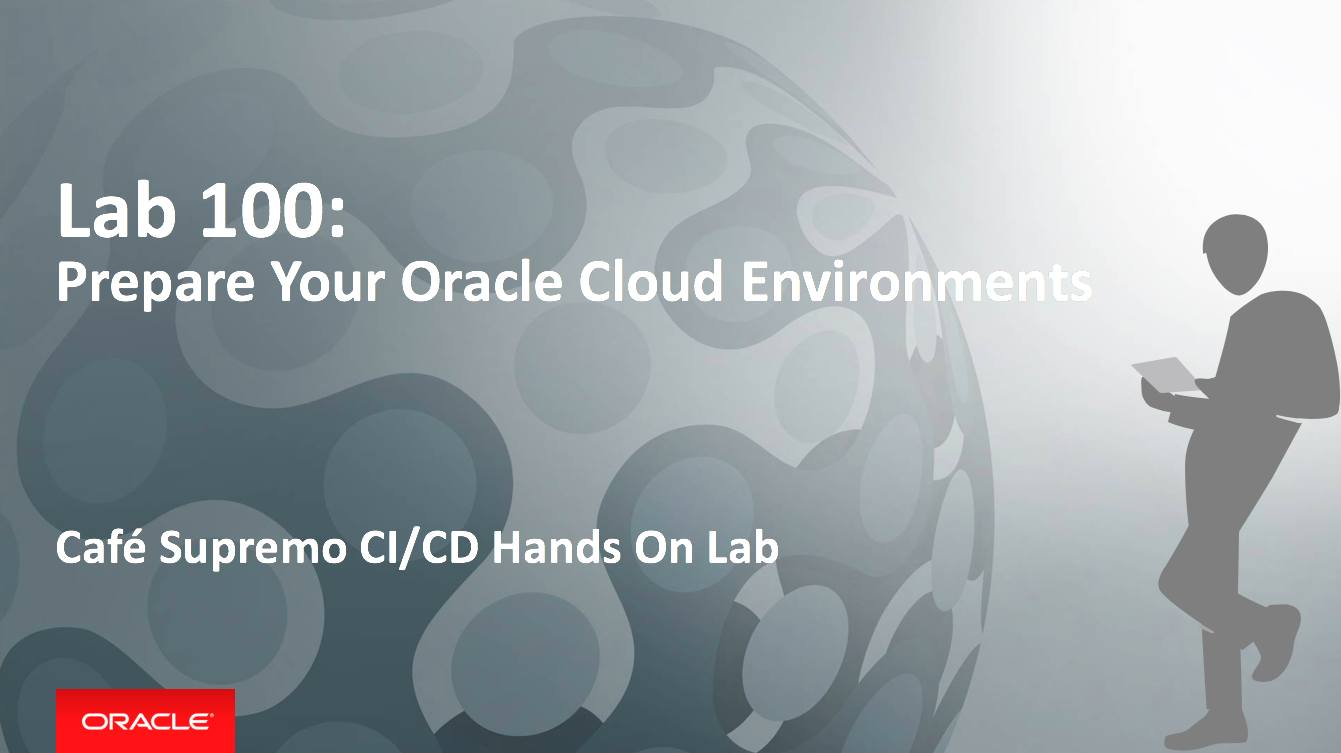
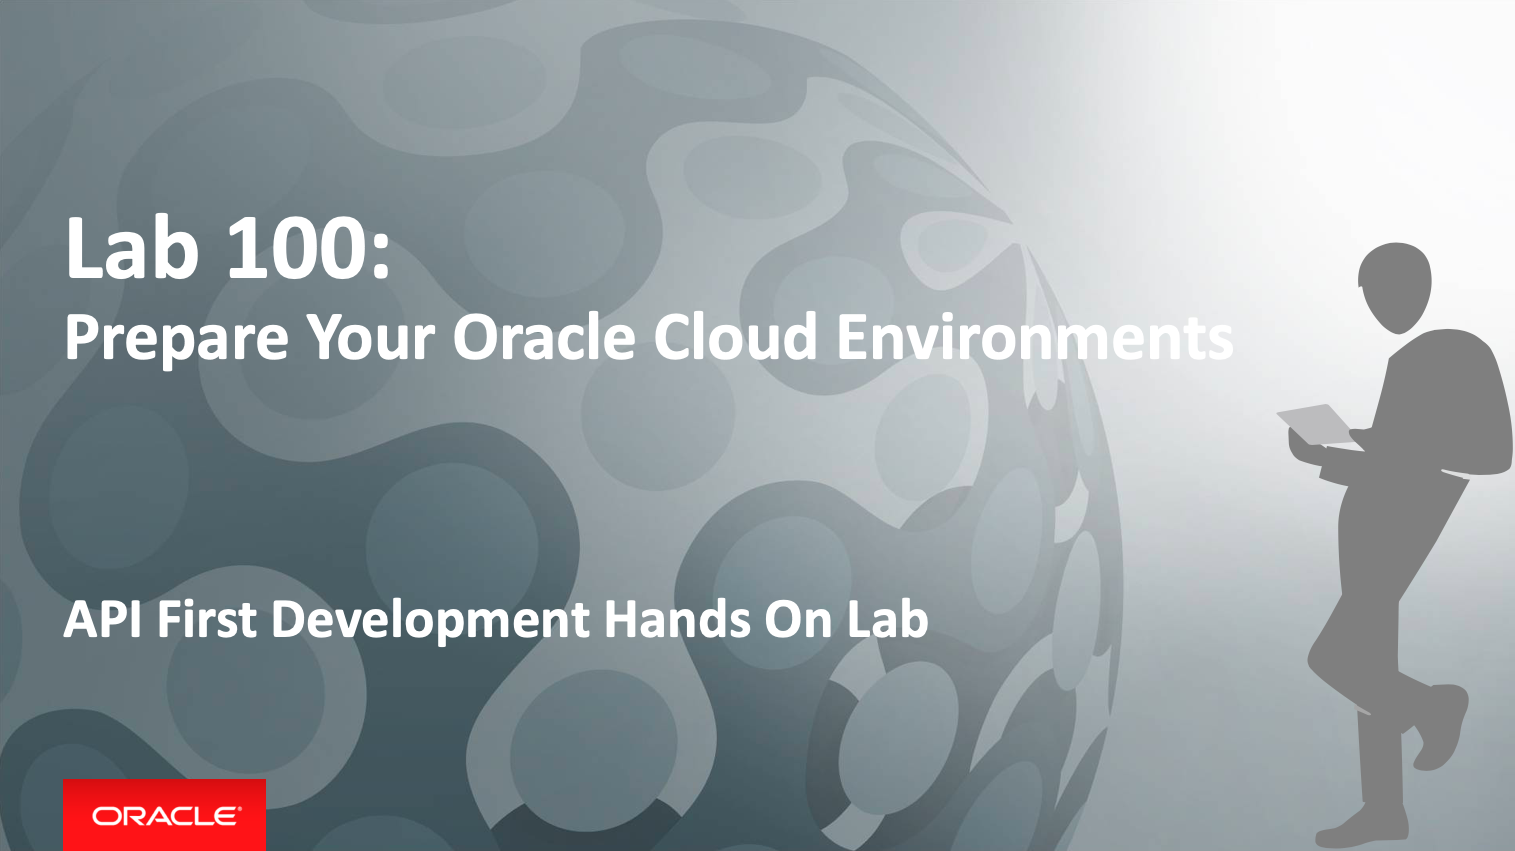
Updated header images

Changed region(s): [[0.0306, 0.2444, 0.7949, 0.4276], [0.0306, 0.7025, 0.6115, 0.7636], [0.0611, 0.9469, 0.1529, 0.9774]]

diff --git a/300-APIFIRSTlab.md b/300-APIFIRSTlab.md
@@ -1,0 +1,216 @@
+
+# Lab 300: Using Apiary and Create API Blueprint
+
+
+![](images/header08.png)
+
+API Blueprint is built to encourage dialogue and collaboration between project stakeholders, developers and customers at any point in the API lifecycle. At the same time, the API Blueprint tools provide the support to achieve the goals be it API development, governance or delivery.
+
+
+### About This Exercise
+
+In this exercise, we will:
+- Use apiary to write our API
+- Use the Out Of The Box apiary features to provide API mock for client application developer to start a spin
+
+For more detail information of apiary, please visit https://apiary.io
+
+## Login to apiary.io
+
+
+
+### Step 1: Navigate to apiary.io
+
+- Open a browser window and navigate to https://apiary.io
+![](images/apiary-01.png)
+
+### Step 2: Sign up a free account
+
+- If you already have an Apiary account, you can just login. If you haven't, you can sign-up for a free account with either Github OR with email. **In this example, we will sign-up with email**.
+
+- Click [ **Sign up free with email!** ]
+
+- Fill in your name, your email address and desired password and click [ ** Sign up for Apiary** ] - *please remember to review Apiary's Terms of Service and Privacy Policy*.
+
+![](images/apiary-02.png)
+
+- You will receive email verification for your Apiary account. Just follow the instructions in that email to activate your free account.
+
+### Step 3: Login to Apiary and create our first API
+
+- If you haven't create your Apiary account, follow Step 2. Once you created your own account and got activated, you can login to Apiary.
+
+- Login to Apiary if you haven't.
+![](images/apiary-03.png)
+
+- **IF THIS IS YOUR FIRST API, YOU WILL SEE A SCREEN LIKE THIS**. Provide a name for your API, e.g. **loyalty**, **code108**, etc. Select *Start your API in* **API Blueprint** (default setting) and click [**SAVE AND START USING APIARY**]
+![](images/apiary-04.png)
+
+- You will be taken to the API Editor as follow
+![](images/apiary-07.png)
+
+
+## Using Apiary Editor
+
+### Step 4: Edit our API Blueprint
+
+- In the API editor, replace **EVERYTHING** with the following contents - be careful, spaces/tabs and line breaks are important - please refer to the API Blueprint documentation and [tutorial](https://help.apiary.io/api_101/api_blueprint_tutorial/) for more details about how to write API Blueprint.
+
+```
+FORMAT: 1A
+HOST: https://REPLACE-WITH-YOUR-ACCS-INSTANCE.oraclecloud.com
+
+# loyalty
+
+Loyalty is a sample coupon system
+
+## Points [/loyalty/v2/points/{id}]
+
+### Get the current points of member [GET]
+
++ Parameters
+    + id: `10001` (string, required) ... member ID
+
++ Response 200
+    + Headers
+
+            Content-Type: application/json; charset=utf-8
+    + Body
+
+            {
+                "points": 1
+            }
+
+### credit member 1 point [POST]
+
+For every 3 points, member will get 1 coupon and point will be reset to zero. Response will be current points.
+
++ Parameters
+
+    + id: `10001` (string, required) ... member ID
+
++ Request (application/json)
+
+        {
+
+        }
+
++ Response 200
+    + Headers
+
+            Content-Type: application/json; charset=utf-8
+    + Body
+
+            {
+                "points": 2
+            }
+
+## Coupon [/loyalty/v2/coupon/{id}]
+
+### Get the current coupon of member [GET]
+
++ Parameters
+    + id: `10001` (string, required) ... member ID
+
++ Response 200
+    + Headers
+
+            Content-Type: application/json; charset=utf-8
+    + Body
+
+            {
+                "coupon": 2
+            }
+
+### consume 1 coupon [POST]
+
++ Parameters
+    + id: `10001` (string, required) ... member ID
+
++ Request (application/json)
+
+        {
+
+        }
+
++ Response 200
+    + Headers
+
+            Content-Type: application/json; charset=utf-8
+    + Body
+
+            {
+                "coupon": 1
+            }
+
+```
+
+- the final blueprint will looks like this
+![](images/apiary-08.png)
+
+
+## Using Apiary Example and Console
+
+### Step 5: Exploring API Documentation
+
+- Once the API Blueprint is ready, we can use the Mock Server to test our API. We can also use the Mock Server for client application development & testing.
+
+- click the [**Documentation**] tab to navigate to the API documentation. This will also be the view which *Client Application Developers* will see when they want to learn / check / test your APIs.
+![](images/apiary-09.png)
+
+- Imagine you are the client application developer, when you navigate this page, you will know this Loyalty API contains
+  - Points
+    - Get current points of member
+    - Credit member 1 point
+  - Coupon
+    - Get current number of coupons of member
+    - consume 1 coupon
+
+- Click [**Get the current points of member**] and check the right pane. It tells you example of using this API and the endpoint (URL) of the Mock Server.
+![](images/apiary-10.png)    
+
+### Step 6: Testing with Mock Server
+
+- Let's test the API with the Mock Server. In the [**Request**] section, select [**Mock Server**] and click [**Try**] button
+![](images/apiary-11.png)
+
+- In this test console, you can set the desired URI parametes, headers, as well as entering your payload in the request body. Just keep the default values (*we are going to get the current point of member id 10001*), check we are using the [**Mock Server**] and click [**Call Resource**] button.  
+![](images/apiary-12.png)
+
+- Scroll down and you will see the API response *(from Mock Server)*. Feel free to explore the test console.
+![](images/apiary-13.png)
+
+- Go back to the example console by clicking the [**Switch to Example**] *(you might need to scroll up first)*.
+![](images/apiary-14.png)
+
+
+## Example Code for Client Application(s)
+
+### Step 7: Get example code for different programming language(s)
+
+- In the right hand pane, Request section, select your desired programming language, e.g [**JavaScript**]
+![](images/apiary-15.png)
+
+- After you change the language, the sample code will be display. As you can see, if you want to develop a HTML5 application, you can just copy and paste this sample code segment to your JavaScripts source code and change to something you need. Feel free to try different language. You can also choose *OTHER API* from *left hand pane*.
+![](images/apiary-16.png)
+
+- For example if you need to develop a NodeJS client, you can use the *request* npm module and have source code similar to the following segment to interact with the API service. Of course, these are just example code. You can always use other framework (e.g. jquery, request-promise, etc) to integrate with the API service.
+![](images/apiary-17.png)
+
+### Step 8: Apiary Mock Server
+
+- Write down the URL of the Apiary Mock Server, we will need to use this URL in next lab.
+
+## You've complete the Using Apiary & API Blueprint Lab.
+
+Proceed to Next lab
+
+Go Back to the Main Page
+
+---
+---
+### Extra Screen Shot
+
+- **IF YOU ALREADY HAVE OTHER API(s), YOU WILL SEE A SCREEN LIKE THIS**. You can choose [**Create New API Project**] in the pull-down menu and provide required information, i.e. name of API, e.g. **loyalty**. Remember to choose *Start your API in* **API Blueprint**.
+![](images/apiary-05.png)
+![](images/apiary-06.png)
